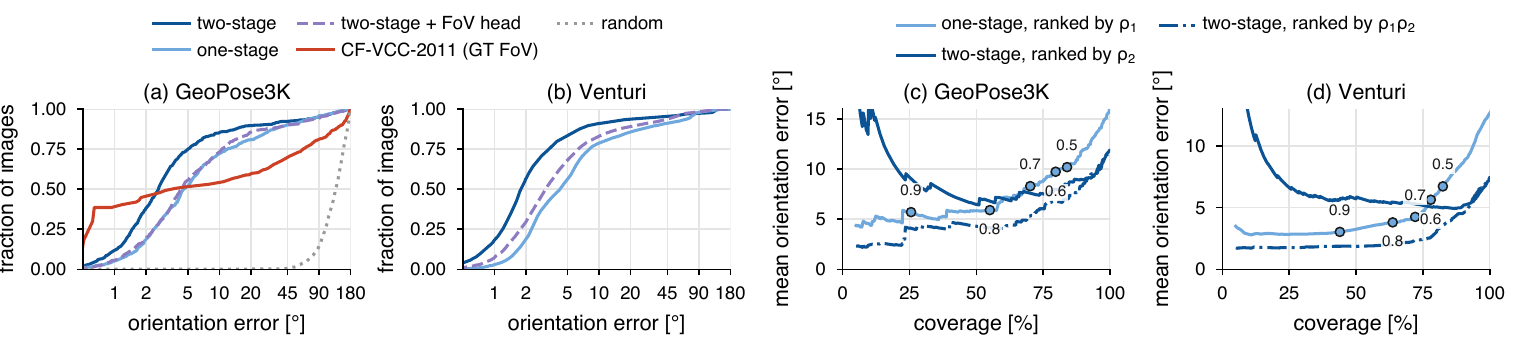
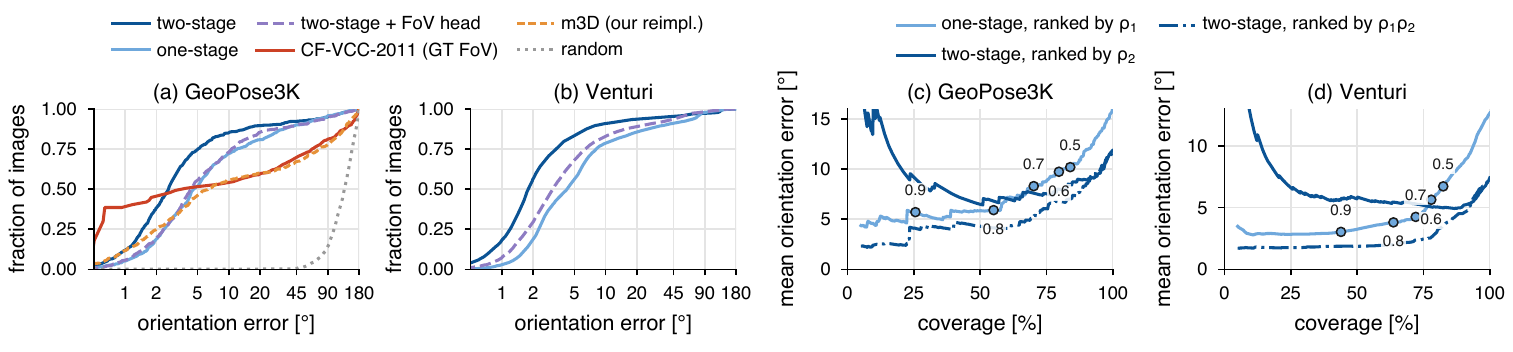
update results

diff --git a/README.md b/README.md
@@ -32,7 +32,7 @@ at the camera position, and predicts the camera **yaw, pitch and roll** and, opt
   of the photo in the panorama by attention.
 - **Accurate where pipelines fail.** On the GeoPose3K test split, the mean/median orientation error is
   **11.9° / 2.6°**, compared with 39.3° / 3.5° for CF-VCC-2011 (given the ground-truth FoV), 41.4° / 6.3°
-  for our reimplementation of the m3D silhouette matching and 62.6° / 47.8° for the best generic matcher.
+  for our reimplementation of the m3D silhouette matching and 63.6° / 48.5° for the best generic matcher.
 - **Letterbox padding matters.** Without a mask, the cross-attention focuses on the black padding of resized
   photos; masking it as attention keys halves the one-stage median error (9.2° → 4.6° on GeoPose3K).
 - **Zoom-in refinement.** An optional second stage re-estimates the orientation on a 2× magnified 180°
@@ -57,15 +57,18 @@ The optional second stage has the same architecture and refines the orientation 
 **GeoPose3K test split** (516 photos): orientation error over all photos and the fraction of photos below
 each error threshold.
 
-| Method | FoV given | Mean ↓ | Median ↓ | < 5° ↑ | < 10° ↑ | < 20° ↑ |
-|---|:---:|---:|---:|---:|---:|---:|
-| MatchAnything (best generic matcher) | – | 62.6° | 47.8° | – | – | 28.7% |
-| m3D (our reimplementation) | – | 41.4° | 6.3° | – | – | 60.1% |
-| CF-VCC-2011 | ground truth | 39.3° | 3.5° | 51.6% | 54.1% | 59.5% |
-| Photo2Pano, one stage | – | 16.0° | 4.6° | 51.9% | 72.1% | 81.0% |
-| **Photo2Pano, two stages** | – | **11.9°** | **2.6°** | **74.8%** | **85.5%** | **89.7%** |
+| Method | FoV given | Mean ↓ | Median ↓ | < 1° ↑ | < 5° ↑ | < 10° ↑ | < 20° ↑ |
+|---|:---:|---:|---:|---:|---:|---:|---:|
+| MatchAnything (best generic matcher) | – | 63.6° | 48.5° | 0.0% | 2.1% | 11.8% | 30.6% |
+| m3D (our reimplementation) | – | 41.4° | 6.3° | 11.6% | 46.3% | 55.6% | 60.1% |
+| CF-VCC-2011 | ground truth | 39.3° | 3.5° | **≈39%** | 51.6% | 54.1% | 59.5% |
+| Photo2Pano, one stage | – | 16.0° | 4.6° | 5.2% | 51.9% | 72.1% | 81.0% |
+| **Photo2Pano, two stages** | – | **11.9°** | **2.6°** | 11.8% | **74.8%** | **85.5%** | **89.7%** |
 
-Below 1°, the FoV-aware pipelines remain more precise (about 39% of the photos vs. 11.8% for Photo2Pano).
+MatchAnything is the best of the generic matchers that we evaluated with their released weights
+(DUSt3R, MASt3R, MatchAnything; see the paper). Below 1°, the FoV-aware pipelines remain more precise
+(about 39% of the photos for CF-VCC-2011 and LandscapeAR); m3D, which does not receive the FoV, places
+11.6% of the photos within 1°, on par with Photo2Pano (11.8%).
 
 **Venturi** (12 video sequences, 3,117 frames): the two-stage model reaches **7.4° / 1.8°** (mean / median
 over all frames), compared with a mean of 12.4° for CF-VCC-2011; the pipelines with m3D verification,
@@ -79,7 +82,8 @@ a higher orientation error.
   <img src="assets/results.png" width="100%" alt="Cumulative errors and selective prediction">
 </p>
 <p align="center"><sub>
-  (a, b) Cumulative orientation error. (c, d) Mean error over the most confident fraction of the images.
+  (a, b) Cumulative orientation error; on GeoPose3K (a) also m3D (our reimplementation) and CF-VCC-2011.
+  (c, d) Mean error over the most confident fraction of the images.
 </sub></p>
 
 ## Installation
